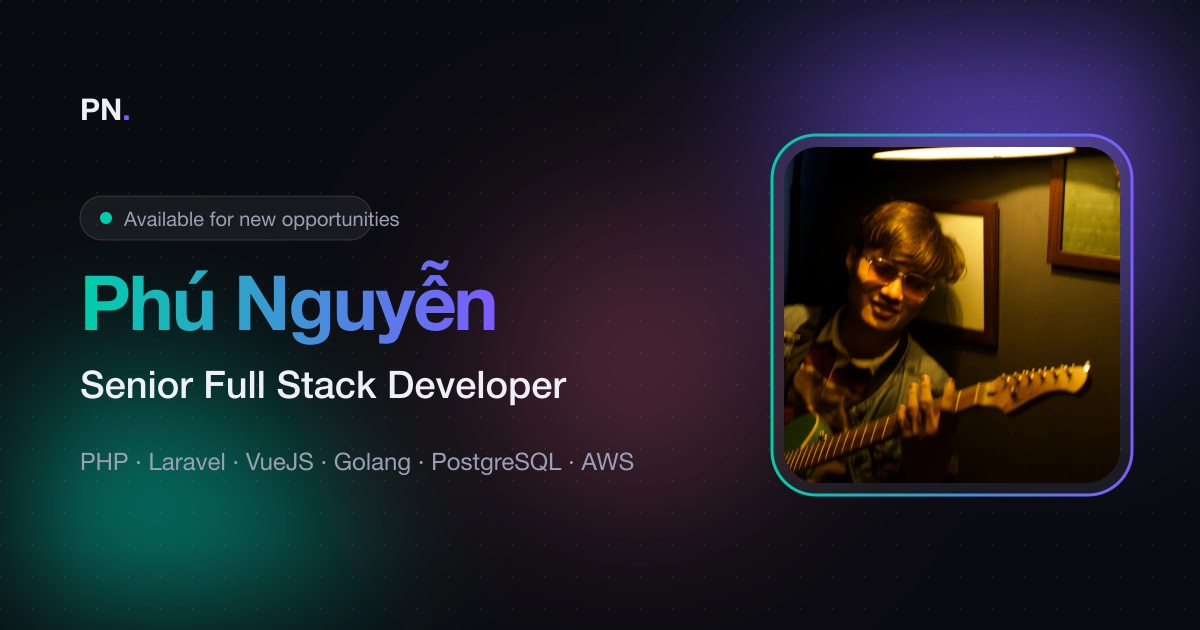
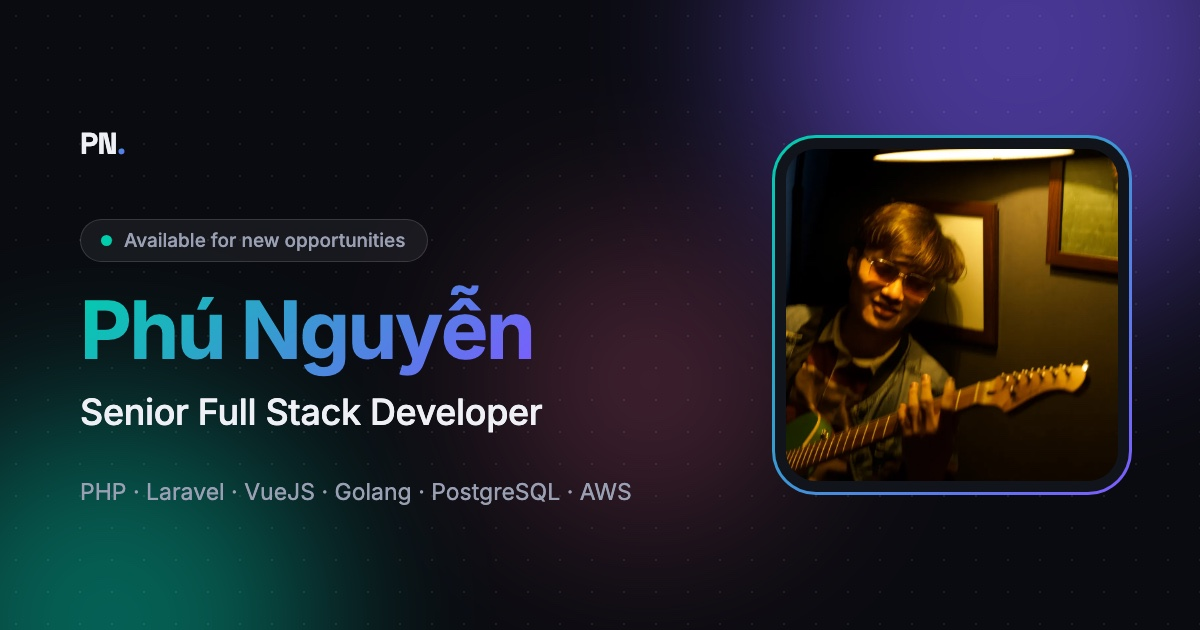
fix: redraw share image so the badge fits its text
- The "Available for new opportunities" pill ended before its text did;
  it now grows with the text
- Text block and photo frame are both centred vertically
- Add docs/og-image.html as the source of og-image.jpg, and note it in
  both READMEs and the changelog

diff --git a/docs/og-image.html b/docs/og-image.html
@@ -1,0 +1,211 @@
+<!doctype html>
+<!--
+  Source of src/assets/og-image.jpg, the 1200×630 image shown when the site
+  is shared. Edit this file, open it in a browser window sized 1200×630,
+  take a screenshot of the page and save it over src/assets/og-image.jpg.
+  Fonts come from node_modules, so run `npm install` first.
+-->
+<html lang="en">
+  <head>
+    <meta charset="utf-8" />
+    <title>Phú Nguyễn — share image</title>
+    <style>
+      @font-face {
+        font-family: "Inter Variable";
+        font-weight: 100 900;
+        src: url("../node_modules/@fontsource-variable/inter/files/inter-latin-wght-normal.woff2")
+          format("woff2-variations");
+        unicode-range:
+          U+0000-00FF, U+0131, U+0152-0153, U+02BB-02BC, U+02C6, U+02DA,
+          U+02DC, U+2000-206F, U+20AC, U+2122, U+2212, U+2215;
+      }
+      @font-face {
+        font-family: "Inter Variable";
+        font-weight: 100 900;
+        src: url("../node_modules/@fontsource-variable/inter/files/inter-vietnamese-wght-normal.woff2")
+          format("woff2-variations");
+        unicode-range:
+          U+0102-0103, U+0110-0111, U+0128-0129, U+0168-0169, U+01A0-01A1,
+          U+01AF-01B0, U+0300-0301, U+0303-0304, U+0308-0309, U+0323, U+0329,
+          U+1EA0-1EF9, U+20AB;
+      }
+      @font-face {
+        font-family: "Space Grotesk Variable";
+        font-weight: 300 700;
+        src: url("../node_modules/@fontsource-variable/space-grotesk/files/space-grotesk-latin-wght-normal.woff2")
+          format("woff2-variations");
+      }
+
+      :root {
+        --teal: #00cdac;
+        --purple: #7c5cff;
+        --gradient: linear-gradient(135deg, var(--teal), var(--purple));
+        --text: #eef0f6;
+        --muted: #9aa0b4;
+      }
+
+      * {
+        box-sizing: border-box;
+        margin: 0;
+      }
+
+      body {
+        position: relative;
+        width: 1200px;
+        height: 630px;
+        overflow: hidden;
+        display: flex;
+        align-items: center;
+        justify-content: space-between;
+        gap: 64px;
+        padding: 0 68px 0 80px;
+        font-family: "Inter Variable", system-ui, sans-serif;
+        color: var(--text);
+        background: #0a0b10;
+      }
+
+      /* Blurred color blobs, then a dotted grid over them */
+      .blob {
+        position: absolute;
+        z-index: -2;
+        border-radius: 50%;
+        filter: blur(90px);
+      }
+      .blob--purple {
+        width: 520px;
+        height: 520px;
+        top: -220px;
+        right: -80px;
+        background: var(--purple);
+        opacity: 0.55;
+      }
+      .blob--teal {
+        width: 420px;
+        height: 420px;
+        bottom: -200px;
+        left: -100px;
+        background: var(--teal);
+        opacity: 0.45;
+      }
+      .blob--pink {
+        width: 300px;
+        height: 300px;
+        top: 230px;
+        left: 500px;
+        background: #ff6b9d;
+        opacity: 0.25;
+      }
+      body::before {
+        content: "";
+        position: absolute;
+        inset: 0;
+        z-index: -1;
+        background-image: radial-gradient(
+          rgba(255, 255, 255, 0.08) 1px,
+          transparent 1px
+        );
+        background-size: 32px 32px;
+      }
+
+      .gradient-text {
+        background: var(--gradient);
+        -webkit-background-clip: text;
+        background-clip: text;
+        color: transparent;
+      }
+
+      .logo {
+        font-family: "Space Grotesk Variable", sans-serif;
+        font-size: 30px;
+        font-weight: 700;
+        letter-spacing: -0.02em;
+      }
+
+      /* inline-flex: the pill grows with its text instead of clipping it */
+      .badge {
+        display: inline-flex;
+        align-items: center;
+        gap: 12px;
+        margin-top: 56px;
+        padding: 11px 22px 11px 20px;
+        border: 1px solid rgba(255, 255, 255, 0.14);
+        border-radius: 999px;
+        font-size: 19px;
+        font-weight: 500;
+        line-height: 1;
+        white-space: nowrap;
+        color: var(--muted);
+        background: rgba(255, 255, 255, 0.06);
+      }
+      .badge::before {
+        content: "";
+        width: 11px;
+        height: 11px;
+        border-radius: 50%;
+        background: var(--teal);
+      }
+
+      h1 {
+        margin-top: 22px;
+        padding-bottom: 6px;
+        font-size: 80px;
+        font-weight: 700;
+        line-height: 1.15;
+        letter-spacing: -0.03em;
+      }
+
+      .role {
+        margin-top: 8px;
+        font-size: 36px;
+        font-weight: 500;
+        letter-spacing: -0.01em;
+      }
+
+      .stack {
+        margin-top: 44px;
+        font-size: 23px;
+        color: var(--muted);
+      }
+
+      .photo {
+        flex-shrink: 0;
+        width: 360px;
+        height: 360px;
+        padding: 3px;
+        border-radius: 44px;
+        background: var(--gradient);
+      }
+      .photo div {
+        width: 100%;
+        height: 100%;
+        padding: 11px;
+        border-radius: 41px;
+        background: #12141c;
+      }
+      .photo img {
+        display: block;
+        width: 100%;
+        height: 100%;
+        object-fit: cover;
+        border-radius: 30px;
+      }
+    </style>
+  </head>
+  <body>
+    <span class="blob blob--purple"></span>
+    <span class="blob blob--teal"></span>
+    <span class="blob blob--pink"></span>
+
+    <main>
+      <p class="logo">PN<span class="gradient-text">.</span></p>
+      <p class="badge">Available for new opportunities</p>
+      <h1><span class="gradient-text">Phú Nguyễn</span></h1>
+      <p class="role">Senior Full Stack Developer</p>
+      <p class="stack">PHP · Laravel · VueJS · Golang · PostgreSQL · AWS</p>
+    </main>
+
+    <div class="photo">
+      <div><img src="../src/assets/profile.webp" alt="" /></div>
+    </div>
+  </body>
+</html>

diff --git a/CHANGELOG.md b/CHANGELOG.md
@@ -20,6 +20,7 @@ Format based on [Keep a Changelog](https://keepachangelog.com/).
 - Self-hosted Inter and Space Grotesk (Fontsource); no request to Google Fonts
 - `npm run i18n`, `npm run format` and `npm run format:check`
 - Résumé source `docs/resume.html`
+- Share image source `docs/og-image.html`
 
 ### Changed
 - Profile and project images converted to WebP
@@ -30,7 +31,7 @@ Format based on [Keep a Changelog](https://keepachangelog.com/).
 - Liquid glass maps are redrawn after a resize settles, and only the newest 48 are cached
 - Build empties `dist/` first and emits relative asset URLs (`--public-url ./`)
 - Sass `@import` replaced by `@use`
-- `og-image.png` converted to `og-image.jpg` (347 kB to 119 kB)
+- `og-image.png` converted to `og-image.jpg` (347 kB to 119 kB) and redrawn: the badge no longer cuts through its text
 - Résumé replaced: current role, no phone number or home address
 - `package.json` author, license (MIT), repository and homepage point to this fork
 

diff --git a/README.vi.md b/README.vi.md
@@ -109,7 +109,7 @@ Mỗi dự án là một `<article class="bento-card">` trong `<div class="bento
 
 ### Ảnh xem trước khi chia sẻ
 
-`src/assets/og-image.jpg` là ảnh hiện ra khi chia sẻ link, kích thước 1200×630. Nếu thay ảnh, hãy giữ đúng kích thước này.
+`src/assets/og-image.jpg` là ảnh hiện ra khi chia sẻ link, kích thước 1200×630. Nếu thay ảnh, hãy giữ đúng kích thước này. Nguồn của ảnh là `docs/og-image.html`: mở file trong cửa sổ trình duyệt cỡ 1200×630 rồi chụp màn hình trang.
 
 Các thẻ `canonical`, `hreflang`, `og:url` và `og:image` đang trỏ tới `https://phunguyen4869.github.io/simplefolio/`. Nếu bạn host ở chỗ khác, hãy sửa các URL này trong `src/index.html`. Trang tiếng Việt lấy URL từ thẻ canonical. Facebook và Zalo cần URL đầy đủ (tuyệt đối).
 

diff --git a/README.md b/README.md
@@ -109,7 +109,7 @@ Change `$primary-color` and `$secondary-color` in `_variables.scss` to set the b
 
 ### Sharing preview
 
-`src/assets/og-image.jpg` is the image shown when the link is shared. It is 1200×630. If you replace it, keep that size.
+`src/assets/og-image.jpg` is the image shown when the link is shared. It is 1200×630. If you replace it, keep that size. Its source is `docs/og-image.html`: open it in a browser window sized 1200×630 and save a screenshot of the page.
 
 The `canonical`, `hreflang`, `og:url` and `og:image` tags point to `https://phunguyen4869.github.io/simplefolio/`. If the site is hosted elsewhere, update those URLs in `src/index.html`. The Vietnamese page takes its URLs from the canonical one. Facebook and Zalo need absolute URLs.
 
